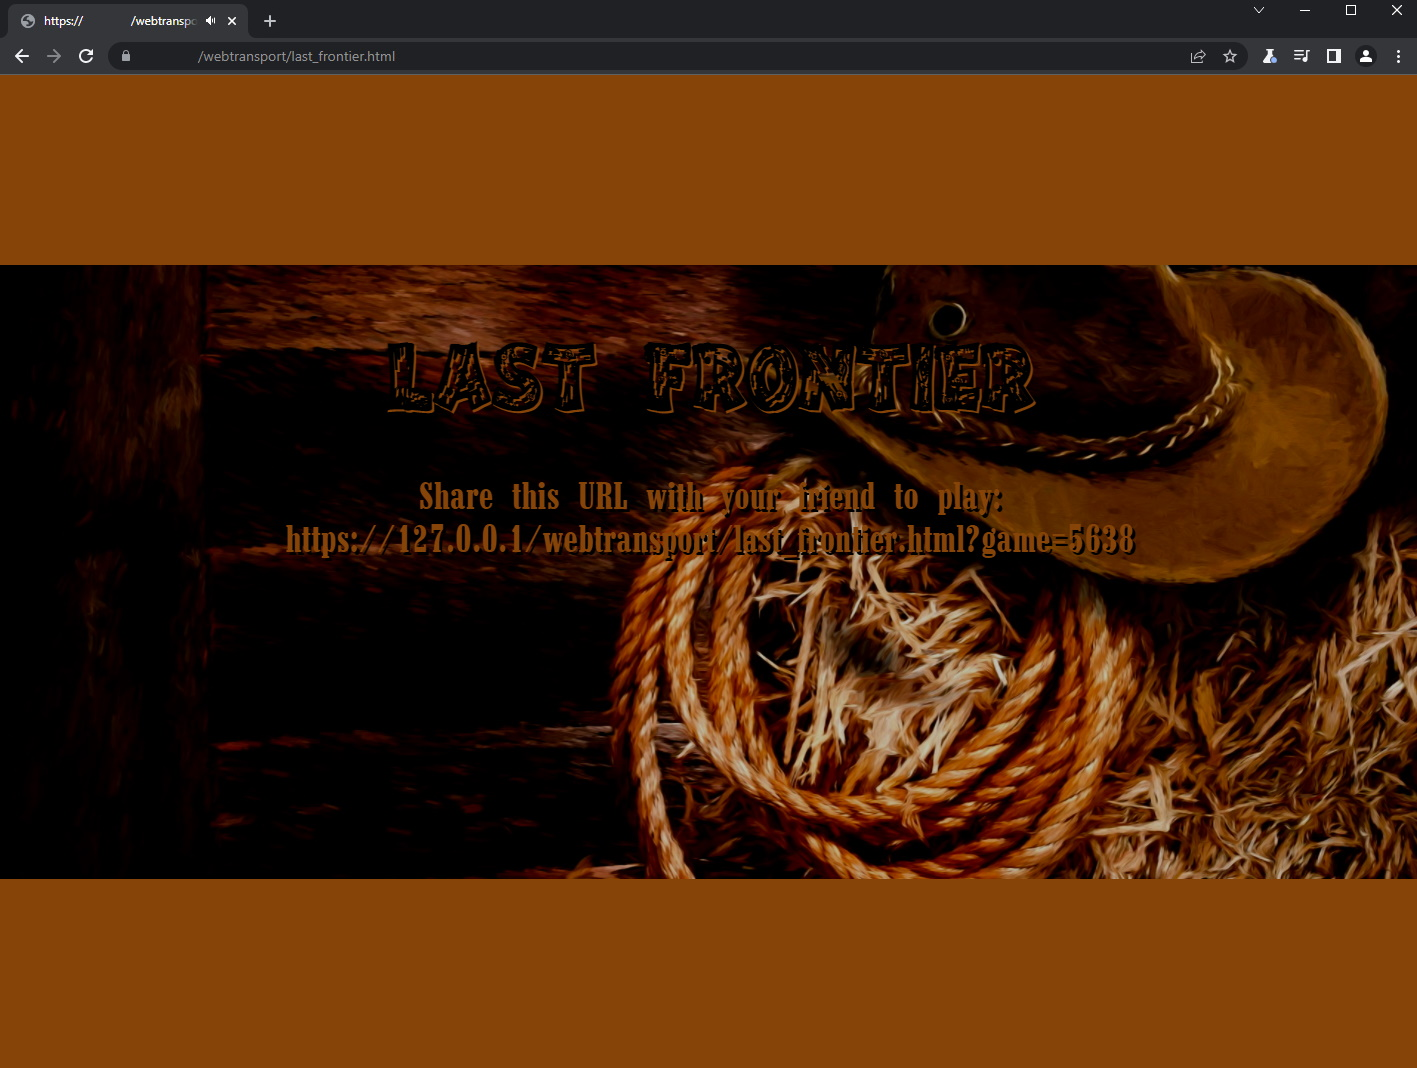
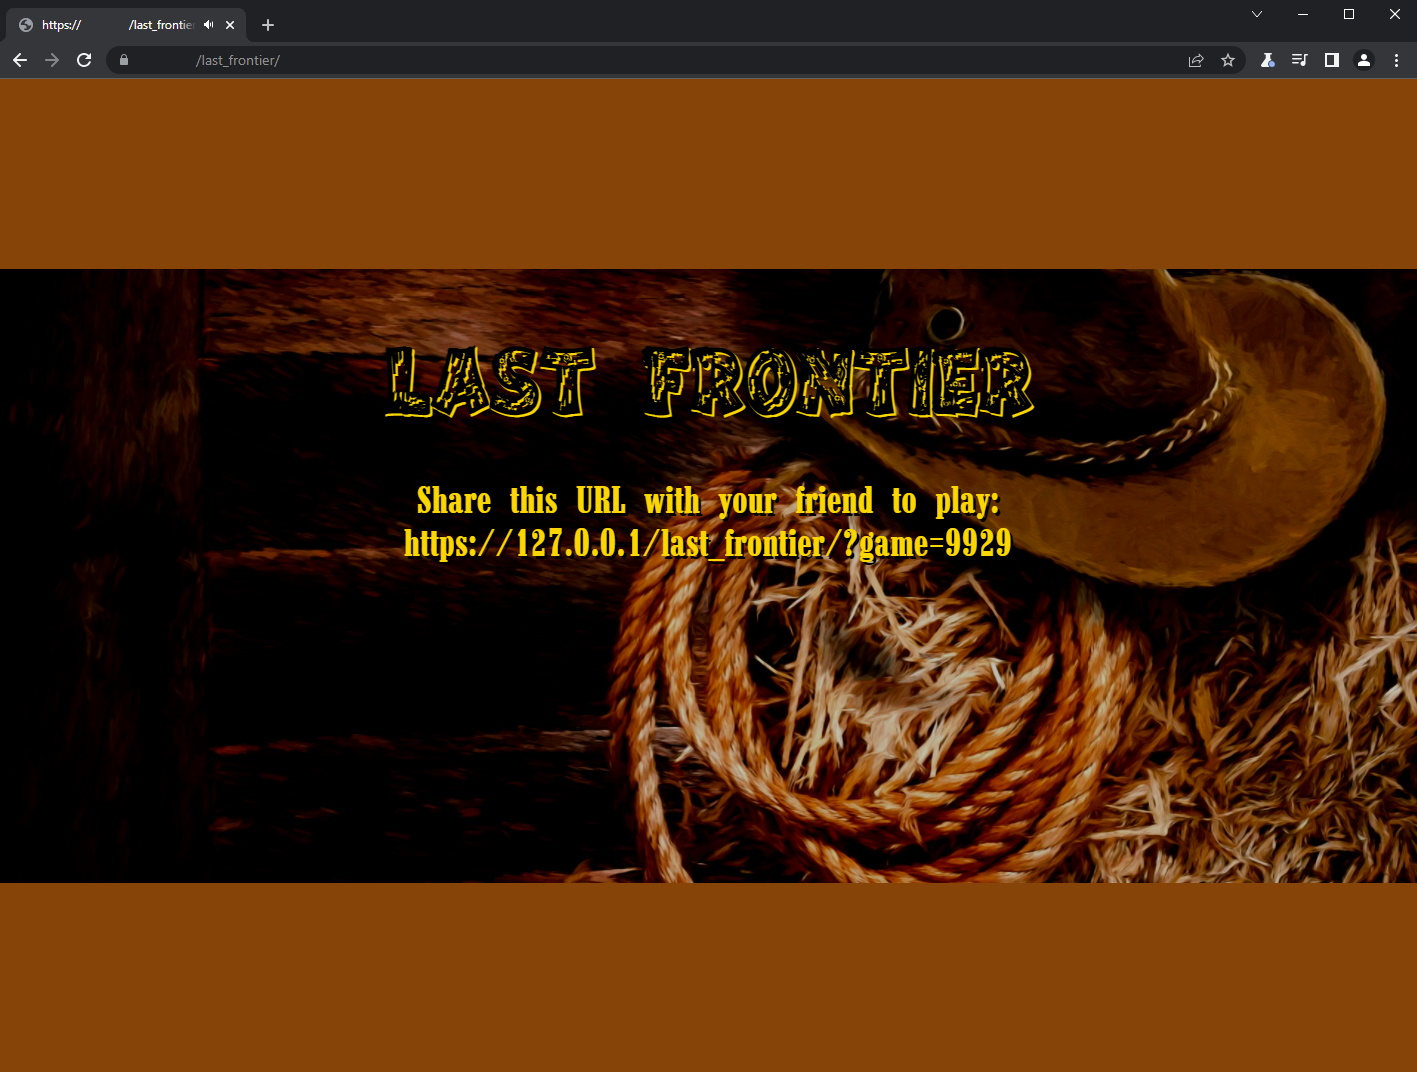
Improve font color and update title screenshot

diff --git a/site/index.html b/site/index.html
@@ -4,10 +4,10 @@
   @font-face { font-family: baseFont; src: url('assets/Marlboro.ttf'); }
   body { background: saddlebrown; }
   #joinGame { background: url('assets/startbg.jpg'); background-size: cover; background-repeat: no-repeat; background-position: center; position:fixed; height:614px; left: 0%; width: 100%; text-align: center; }
-  #joinInstructions { display:none; font-size: 40px; font-family: baseFont; color: saddlebrown; text-shadow: 3px 3px black; }
+  #joinInstructions { display:none; font-size: 40px; font-family: baseFont; color: gold; text-shadow: 3px 3px black; }
   .unselectable { user-select: none; }
-  h1 { font-size: 80px; font-family: titleFont; color: black; text-shadow: 2px 2px saddlebrown; }
-  #webtransport { display:none; font-size: 40px; font-family: baseFont; color: saddlebrown; text-shadow: 3px 3px black; }
+  h1 { font-size: 80px; font-family: titleFont; color: black; text-shadow: 2px 2px gold; }
+  #webtransport { display:none; font-size: 40px; font-family: baseFont; color: gold; text-shadow: 3px 3px black; }
   #opponentHasQuit { display:none; position:fixed; width: 100%; bottom:40%; text-align: center; font-size: 40px; font-family: baseFont; color: saddlebrown; text-shadow: 2px 2px black; }
   #gameStart { display:none; position:fixed; width: 100%; bottom:40%; text-align: center; font-size: 40px; font-family: baseFont; color: saddlebrown; text-shadow: 2px 2px black; }
 </style>
